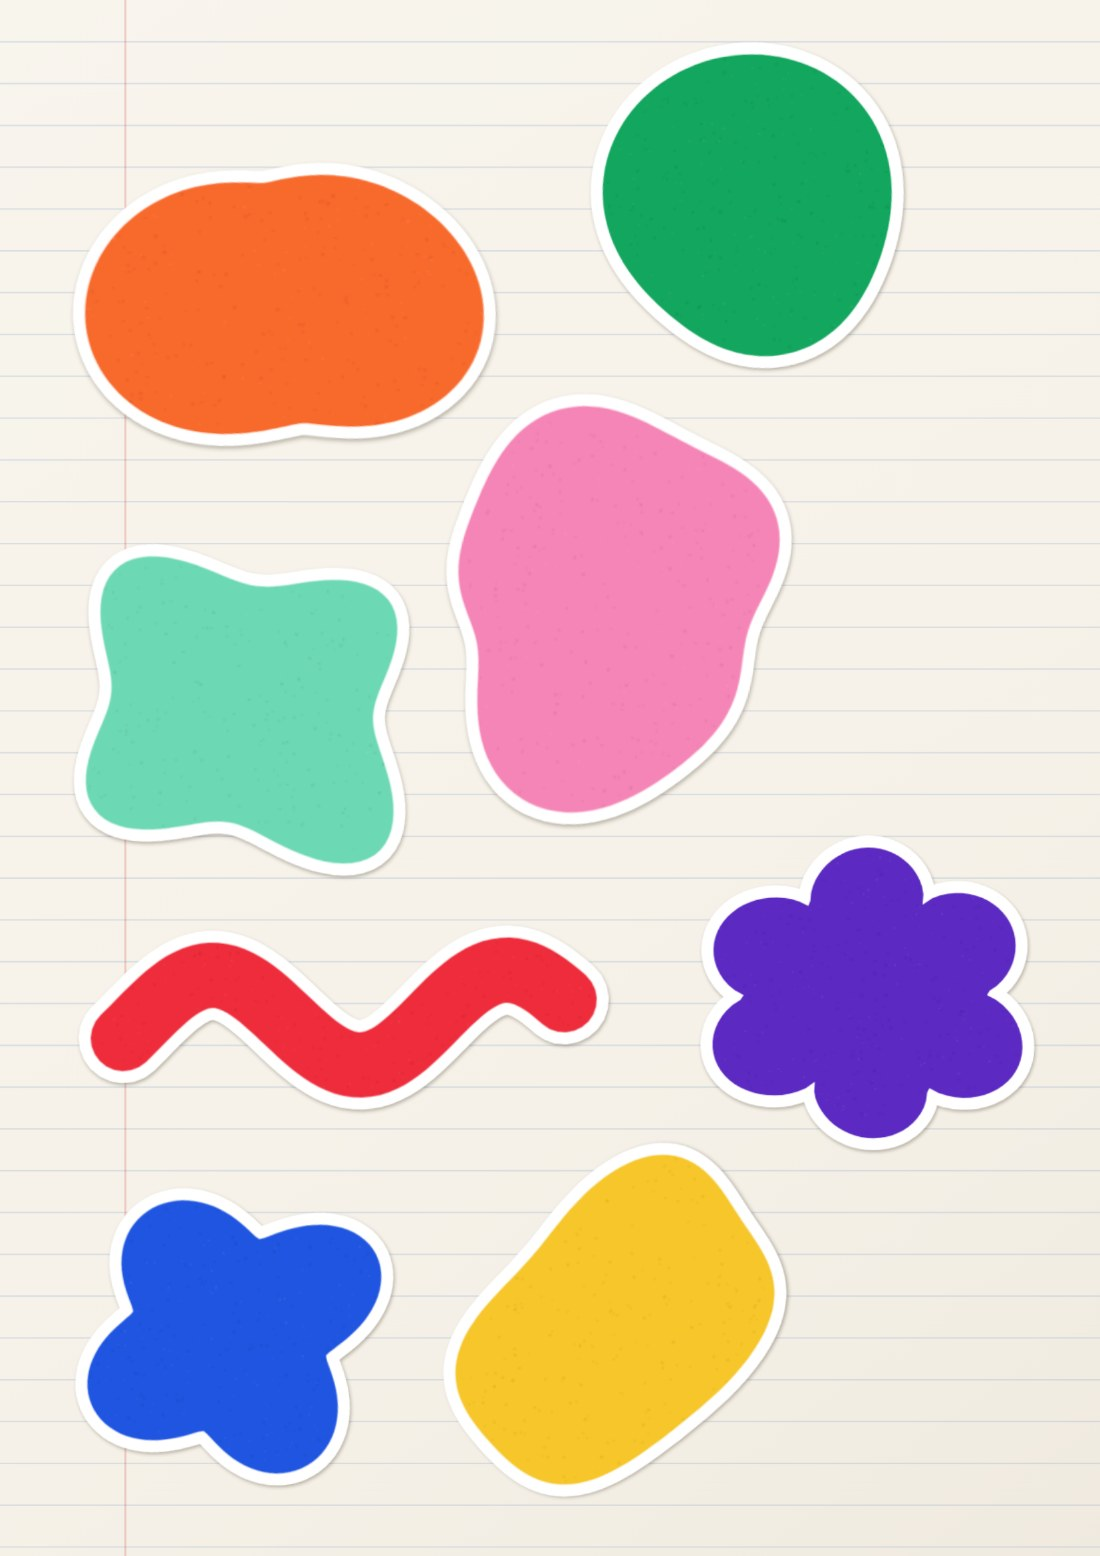
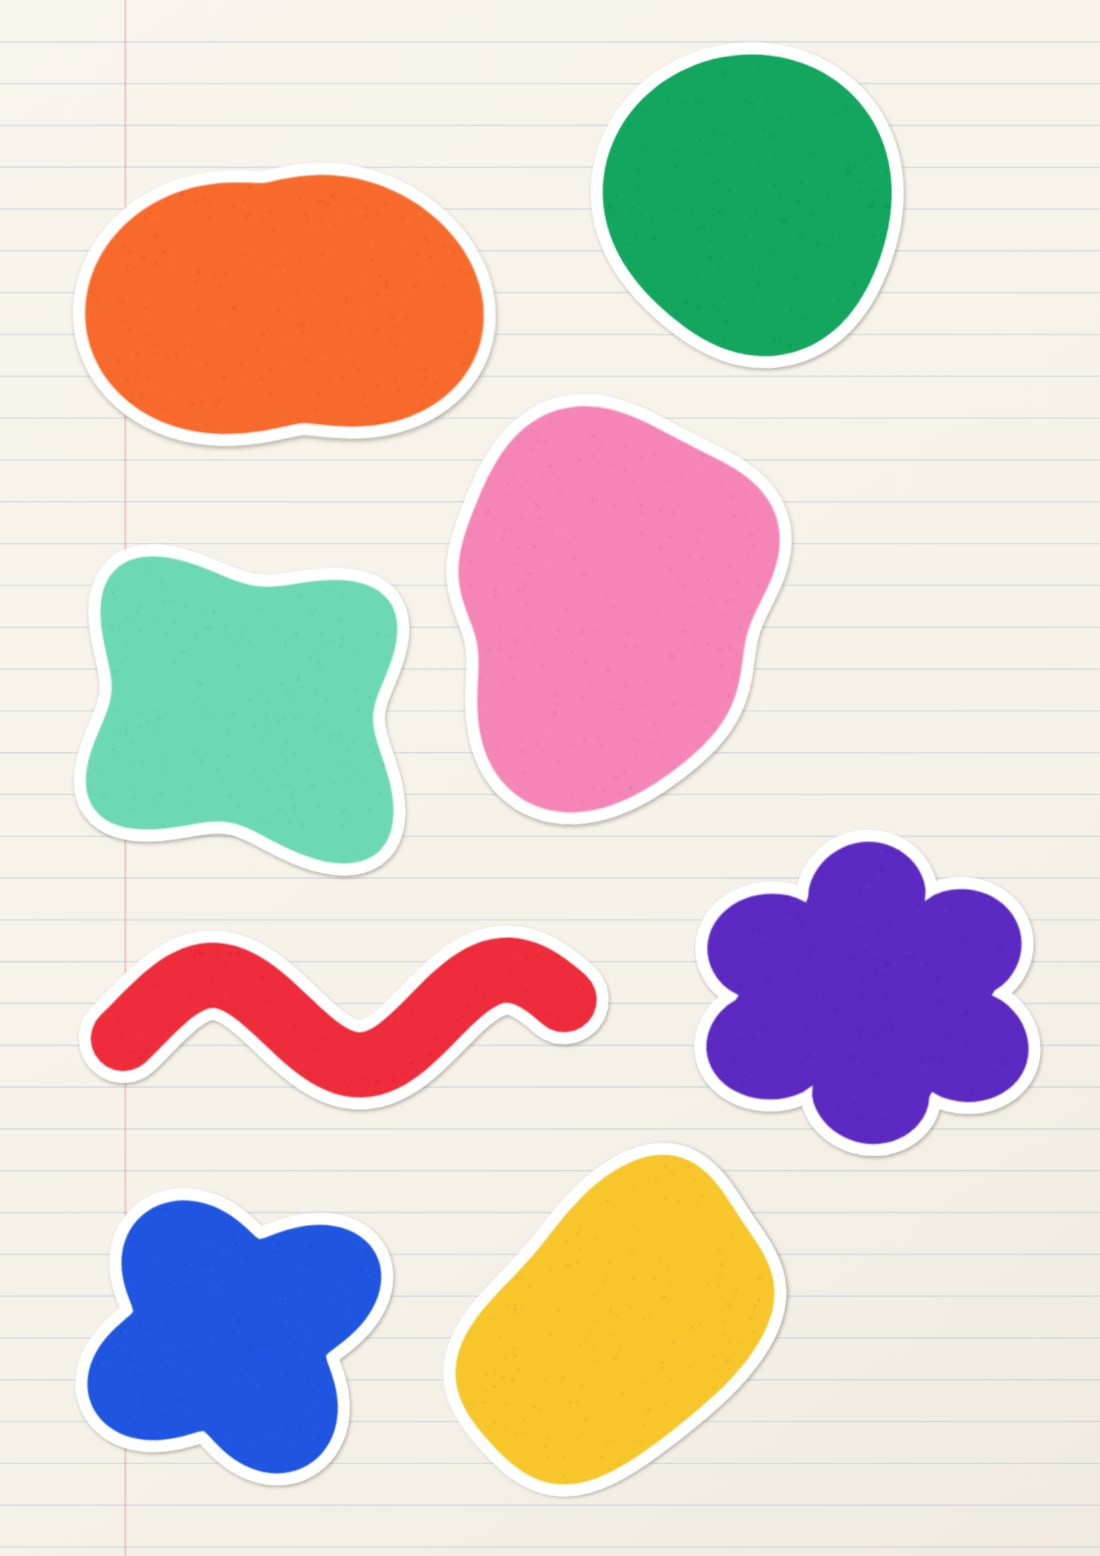
Favoris pour les visiteurs (en Aperçu, menu Mes favoris, accueil) ; accueil : feuilles d'exemple mises à jour
Claude-Session: https://claude.ai/code/session_01QWV1uWe7wY7pNVpm84opJb

diff --git a/js/app.js b/js/app.js
@@ -181,7 +181,7 @@ addEventListener('hashchange',()=>{const h=hashFam();if(MODE==='cloud'){if(h&&h!
 function syncBrand(){const f=document.querySelector('#brand .fam'),s=document.querySelector('#brand .fsub');if(!f)return;const b=S.boards.get(activeBoard);
   if(document.activeElement!==f)f.textContent=b?.name||'';f.contentEditable=EDIT?'true':'false';
   if(s){if(document.activeElement!==s)s.textContent=b?.subtitle??'Listes de Noël';s.contentEditable=EDIT?'true':'false'}
-  document.title=(b?.name?b.name+' · ':'')+'Listes de Noël'}
+  document.title=(b?.name?b.name+' · ':'')+'Listes de Noël';renderFavs()}
 function setStatus(t,live){const s=document.getElementById('status');s.querySelector('span').textContent=t;s.classList.toggle('live',live)}
 function toast(t){const e=document.getElementById('toast');e.textContent=t;e.classList.add('on');clearTimeout(e._t);e._t=setTimeout(()=>e.classList.remove('on'),2600)}
 
@@ -1044,5 +1044,31 @@ async function makeHomeImages(){const ss=sortedSheets().map(x=>x[0]).slice(0,4),
 async function copyAccueil(){const b=S.boards.get('accueil')||{},sh=[...S.sheets].filter(([,v])=>v.board==='accueil'),ids=new Set(sh.map(x=>x[0]));
   const data={app:'collage-noel',version:1,accueil:true,board:b,sheets:sh,items:[...S.items].filter(([,v])=>ids.has(v.sheet))},t=JSON.stringify(data);
   try{await navigator.clipboard.writeText(t);toast(t.length>400000?'Copié (gros texte : tes images sont dedans). Colle-le à Claude.':'Copié : colle-le à Claude')}catch(e){prompt('Copie ce texte :',t)}}
+
+/* =====================================================================
+   Favoris (visiteurs) : les listes des autres familles, gardées dans le navigateur
+   ===================================================================== */
+const FKEY='collage-favoris';
+const favs=()=>{try{return JSON.parse(localStorage.getItem(FKEY))||[]}catch(e){return []}};
+const saveFavs=a=>{try{localStorage.setItem(FKEY,JSON.stringify(a))}catch(e){}renderFavs()};
+const favUrl=id=>PAGE_URL+'#'+id;
+function toggleFav(id){const a=favs(),i=a.findIndex(f=>f.id===id);
+  if(i>=0){a.splice(i,1);saveFavs(a);toast('Retirée de tes favoris');return}
+  const b=S.boards.get(id)||{};a.unshift({id,name:b.name||'Liste',sub:b.subtitle||'',at:Date.now()});saveFavs(a);toast('Ajoutée à tes favoris : tu la retrouveras en haut à droite et sur l’accueil')}
+function renderFavs(){const a=favs(),fav=!!activeBoard&&a.some(f=>f.id===activeBoard);
+  // garder le nom à jour
+  if(fav){const b=S.boards.get(activeBoard),f=a.find(x=>x.id===activeBoard);if(b&&b.name&&f.name!==b.name){f.name=b.name;try{localStorage.setItem(FKEY,JSON.stringify(a))}catch(e){}}}
+  const st=document.getElementById('favstar');st.textContent=fav?'★ Dans tes favoris':'☆ Ajouter aux favoris';st.classList.toggle('on',fav);
+  document.getElementById('favwrap').style.display=a.length?'':'none';
+  const h=document.getElementById('hfavs');h.innerHTML='';if(a.length){const t=document.createElement('div');t.className='hft';t.textContent='Tes listes favorites';h.appendChild(t);
+    const w=document.createElement('div');w.className='hfw';a.forEach(f=>{const x=document.createElement('a');x.href=favUrl(f.id);x.textContent=f.name;x.onclick=()=>hideHome();w.appendChild(x)});h.appendChild(w)}}
+document.getElementById('favstar').onclick=()=>{if(activeBoard)toggleFav(activeBoard)};
+const FVM=document.getElementById('favmenu');
+document.getElementById('favbtn').onclick=e=>{e.stopPropagation();const o=FVM.classList.contains('open');closeMenus();if(o)return;FVM.innerHTML='<div class="mh">Mes listes favorites</div>';
+  favs().forEach(f=>{const r=document.createElement('div');r.className='frow';r.innerHTML=`<button class="go${f.id===activeBoard?' cur':''}"></button><button class="rm" title="Retirer des favoris">×</button>`;
+    r.querySelector('.go').textContent=f.name;r.querySelector('.go').onclick=()=>{closeMenus();location.hash=f.id};
+    r.querySelector('.rm').onclick=ev=>{ev.stopPropagation();saveFavs(favs().filter(x=>x.id!==f.id));r.remove();if(!favs().length)closeMenus()};FVM.appendChild(r)});
+  const n=document.createElement('div');n.className='mnote';n.textContent='Gardés dans ce navigateur.';FVM.appendChild(n);FVM.classList.add('open')};
+renderFavs();
 
 boot();

diff --git a/css/app.css b/css/app.css
@@ -434,3 +434,23 @@
   .entry .co{display:flex;align-items:center;gap:6px;font-size:11.5px;color:var(--muted);margin-top:3px}
   .entry .co i{width:10px;height:10px;border-radius:50%;box-shadow:inset 0 0 0 1px rgba(0,0,0,.15)}
   .entry .co i.any{background:conic-gradient(#e2393b,#f6c62a,#2e9e5b,#2f62d8,#7b4bc4,#e2393b)}
+
+  /* ---------- favoris ---------- */
+  #favstar{display:none;border:0;background:none;cursor:pointer;font:500 11.5px Inter;color:var(--muted);padding:2px 8px;border-radius:999px}
+  body.viewer #favstar{display:inline-block}
+  #favstar:hover{background:rgba(0,0,0,.05);color:var(--ink)}
+  #favstar.on{color:#c98a00}
+  body.stack #favstar{font-size:12.5px;border:1px solid var(--line);background:rgba(255,255,255,.6);padding:4px 12px}
+  #favbtn{border:1px solid var(--line);background:var(--glass);backdrop-filter:blur(14px);border-radius:999px;padding:8px 14px;font:500 12.5px Inter;cursor:pointer;box-shadow:var(--shadow);color:var(--ink)}
+  #favbtn:hover{background:#fff}
+  #favmenu{left:auto;right:0;min-width:240px}
+  #favmenu .frow{display:flex;align-items:center}
+  #favmenu .frow .go{flex:1;min-width:0;overflow:hidden;text-overflow:ellipsis;white-space:nowrap}
+  #favmenu .frow .rm{width:28px;flex:none;justify-content:center;color:var(--muted);font-size:16px}
+  .hfavs:empty{display:none}
+  .hfavs{margin-top:2.6cqw;display:flex;flex-direction:column;align-items:center;gap:6px}
+  .hft{font:600 10.5px Inter;letter-spacing:.06em;text-transform:uppercase;color:var(--muted)}
+  .hfw{display:flex;flex-wrap:wrap;gap:6px;justify-content:center}
+  .hfw a{font:500 12.5px Inter;color:var(--ink);text-decoration:none;background:#fff;border:1px solid var(--line);border-radius:999px;padding:5px 12px}
+  .hfw a::before{content:"★ ";color:#c98a00}
+  .hfw a:hover{border-color:var(--ink)}

diff --git a/index.html b/index.html
@@ -17,8 +17,8 @@
   </filter>
 </svg>
 
-<header id="brand"><div class="fam" spellcheck="false"></div><div class="bsub"><span class="fsub" spellcheck="false"></span><span class="wrap-rel" id="famwrap"><button id="boardsbtn">Famille ▾</button><div class="menu" id="boardsmenu"></div></span></div></header>
-<div id="topright"><div id="modes"><button data-m="edit">Éditer</button><button data-m="view">Aperçu</button></div><div class="wrap-rel" id="account"><button id="acctbtn">Se connecter</button><div class="menu" id="acctmenu"></div></div></div>
+<header id="brand"><div class="fam" spellcheck="false"></div><div class="bsub"><span class="fsub" spellcheck="false"></span><button id="favstar" type="button">☆ Ajouter aux favoris</button><span class="wrap-rel" id="famwrap"><button id="boardsbtn">Famille ▾</button><div class="menu" id="boardsmenu"></div></span></div></header>
+<div id="topright"><div class="wrap-rel" id="favwrap"><button id="favbtn">★ Mes favoris</button><div class="menu" id="favmenu"></div></div><div id="modes"><button data-m="edit">Éditer</button><button data-m="view">Aperçu</button></div><div class="wrap-rel" id="account"><button id="acctbtn">Se connecter</button><div class="menu" id="acctmenu"></div></div></div>
 <div id="stackhint">Clique sur une liste pour l’ouvrir</div>
 <div id="stage"></div>
 <nav id="pager"></nav>
@@ -124,6 +124,7 @@
         <small id="hmsg">Pas de mot de passe : tu reçois un lien de connexion par mail.</small>
       </div>
       <a href="#demo" class="hdemo">ou regarde un exemple →</a>
+      <div class="hfavs" id="hfavs"></div>
     </div></div>
 </div>
 <div class="toast" id="toast"></div>
